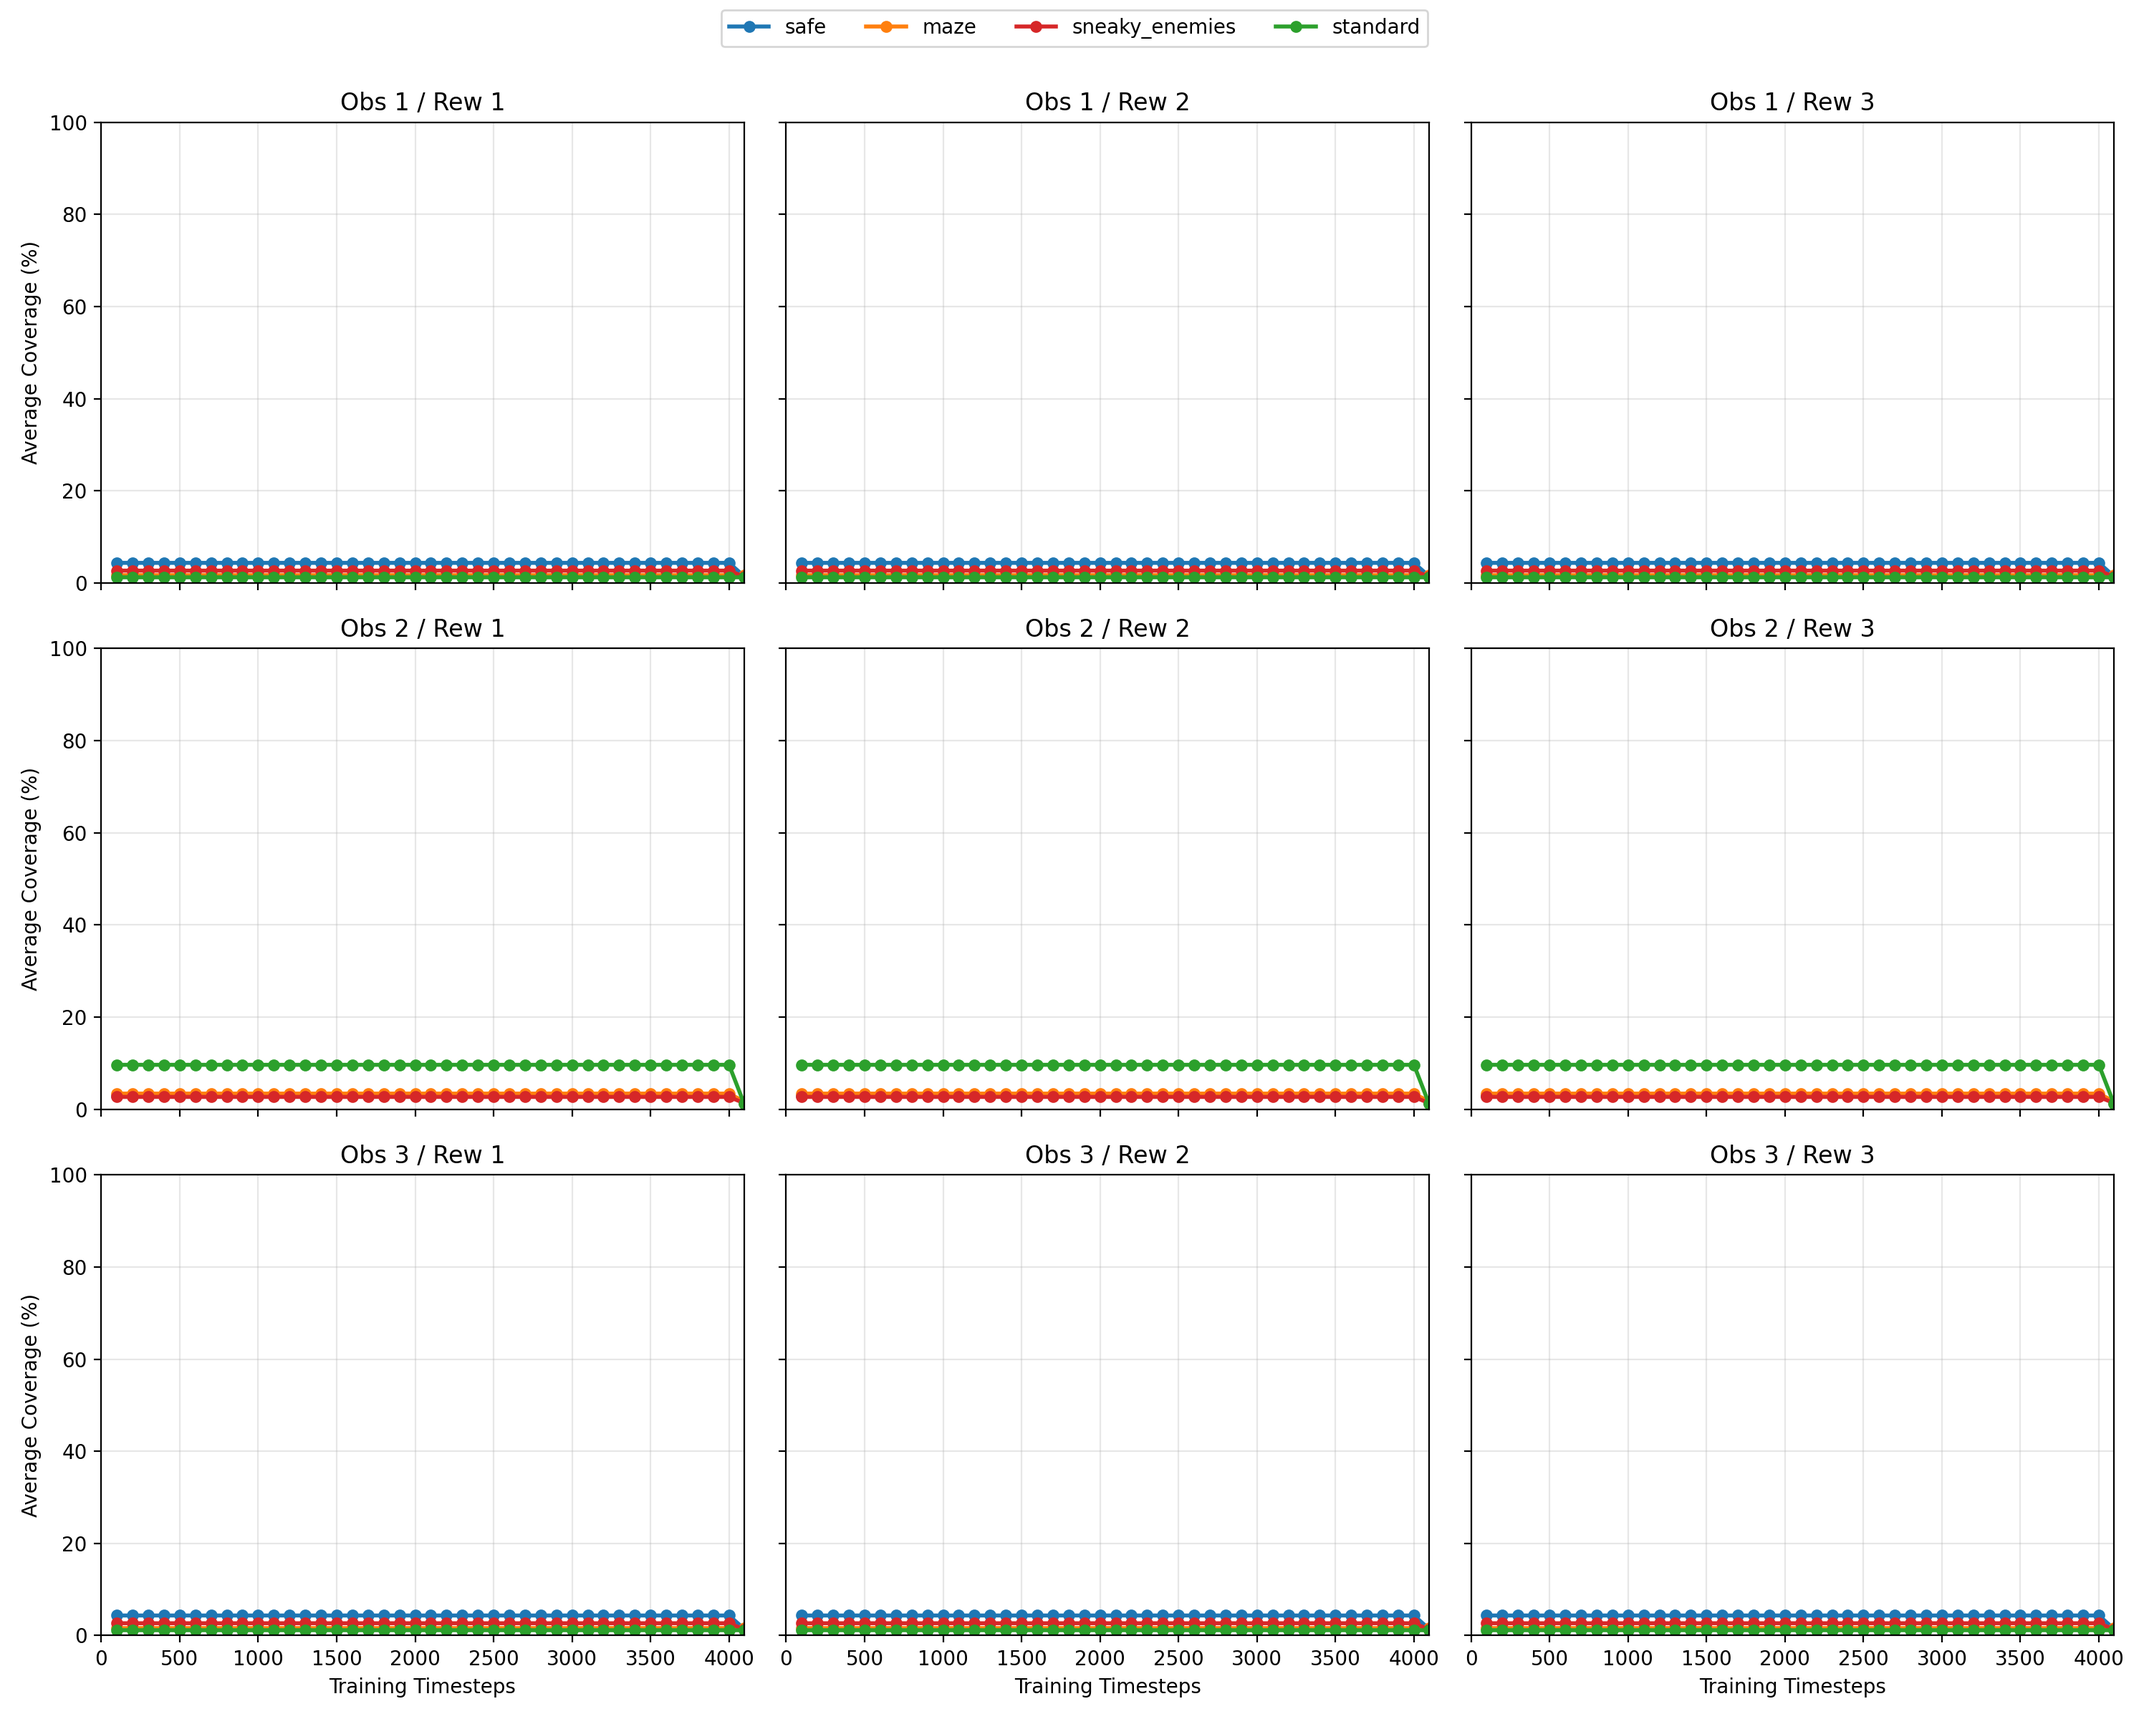
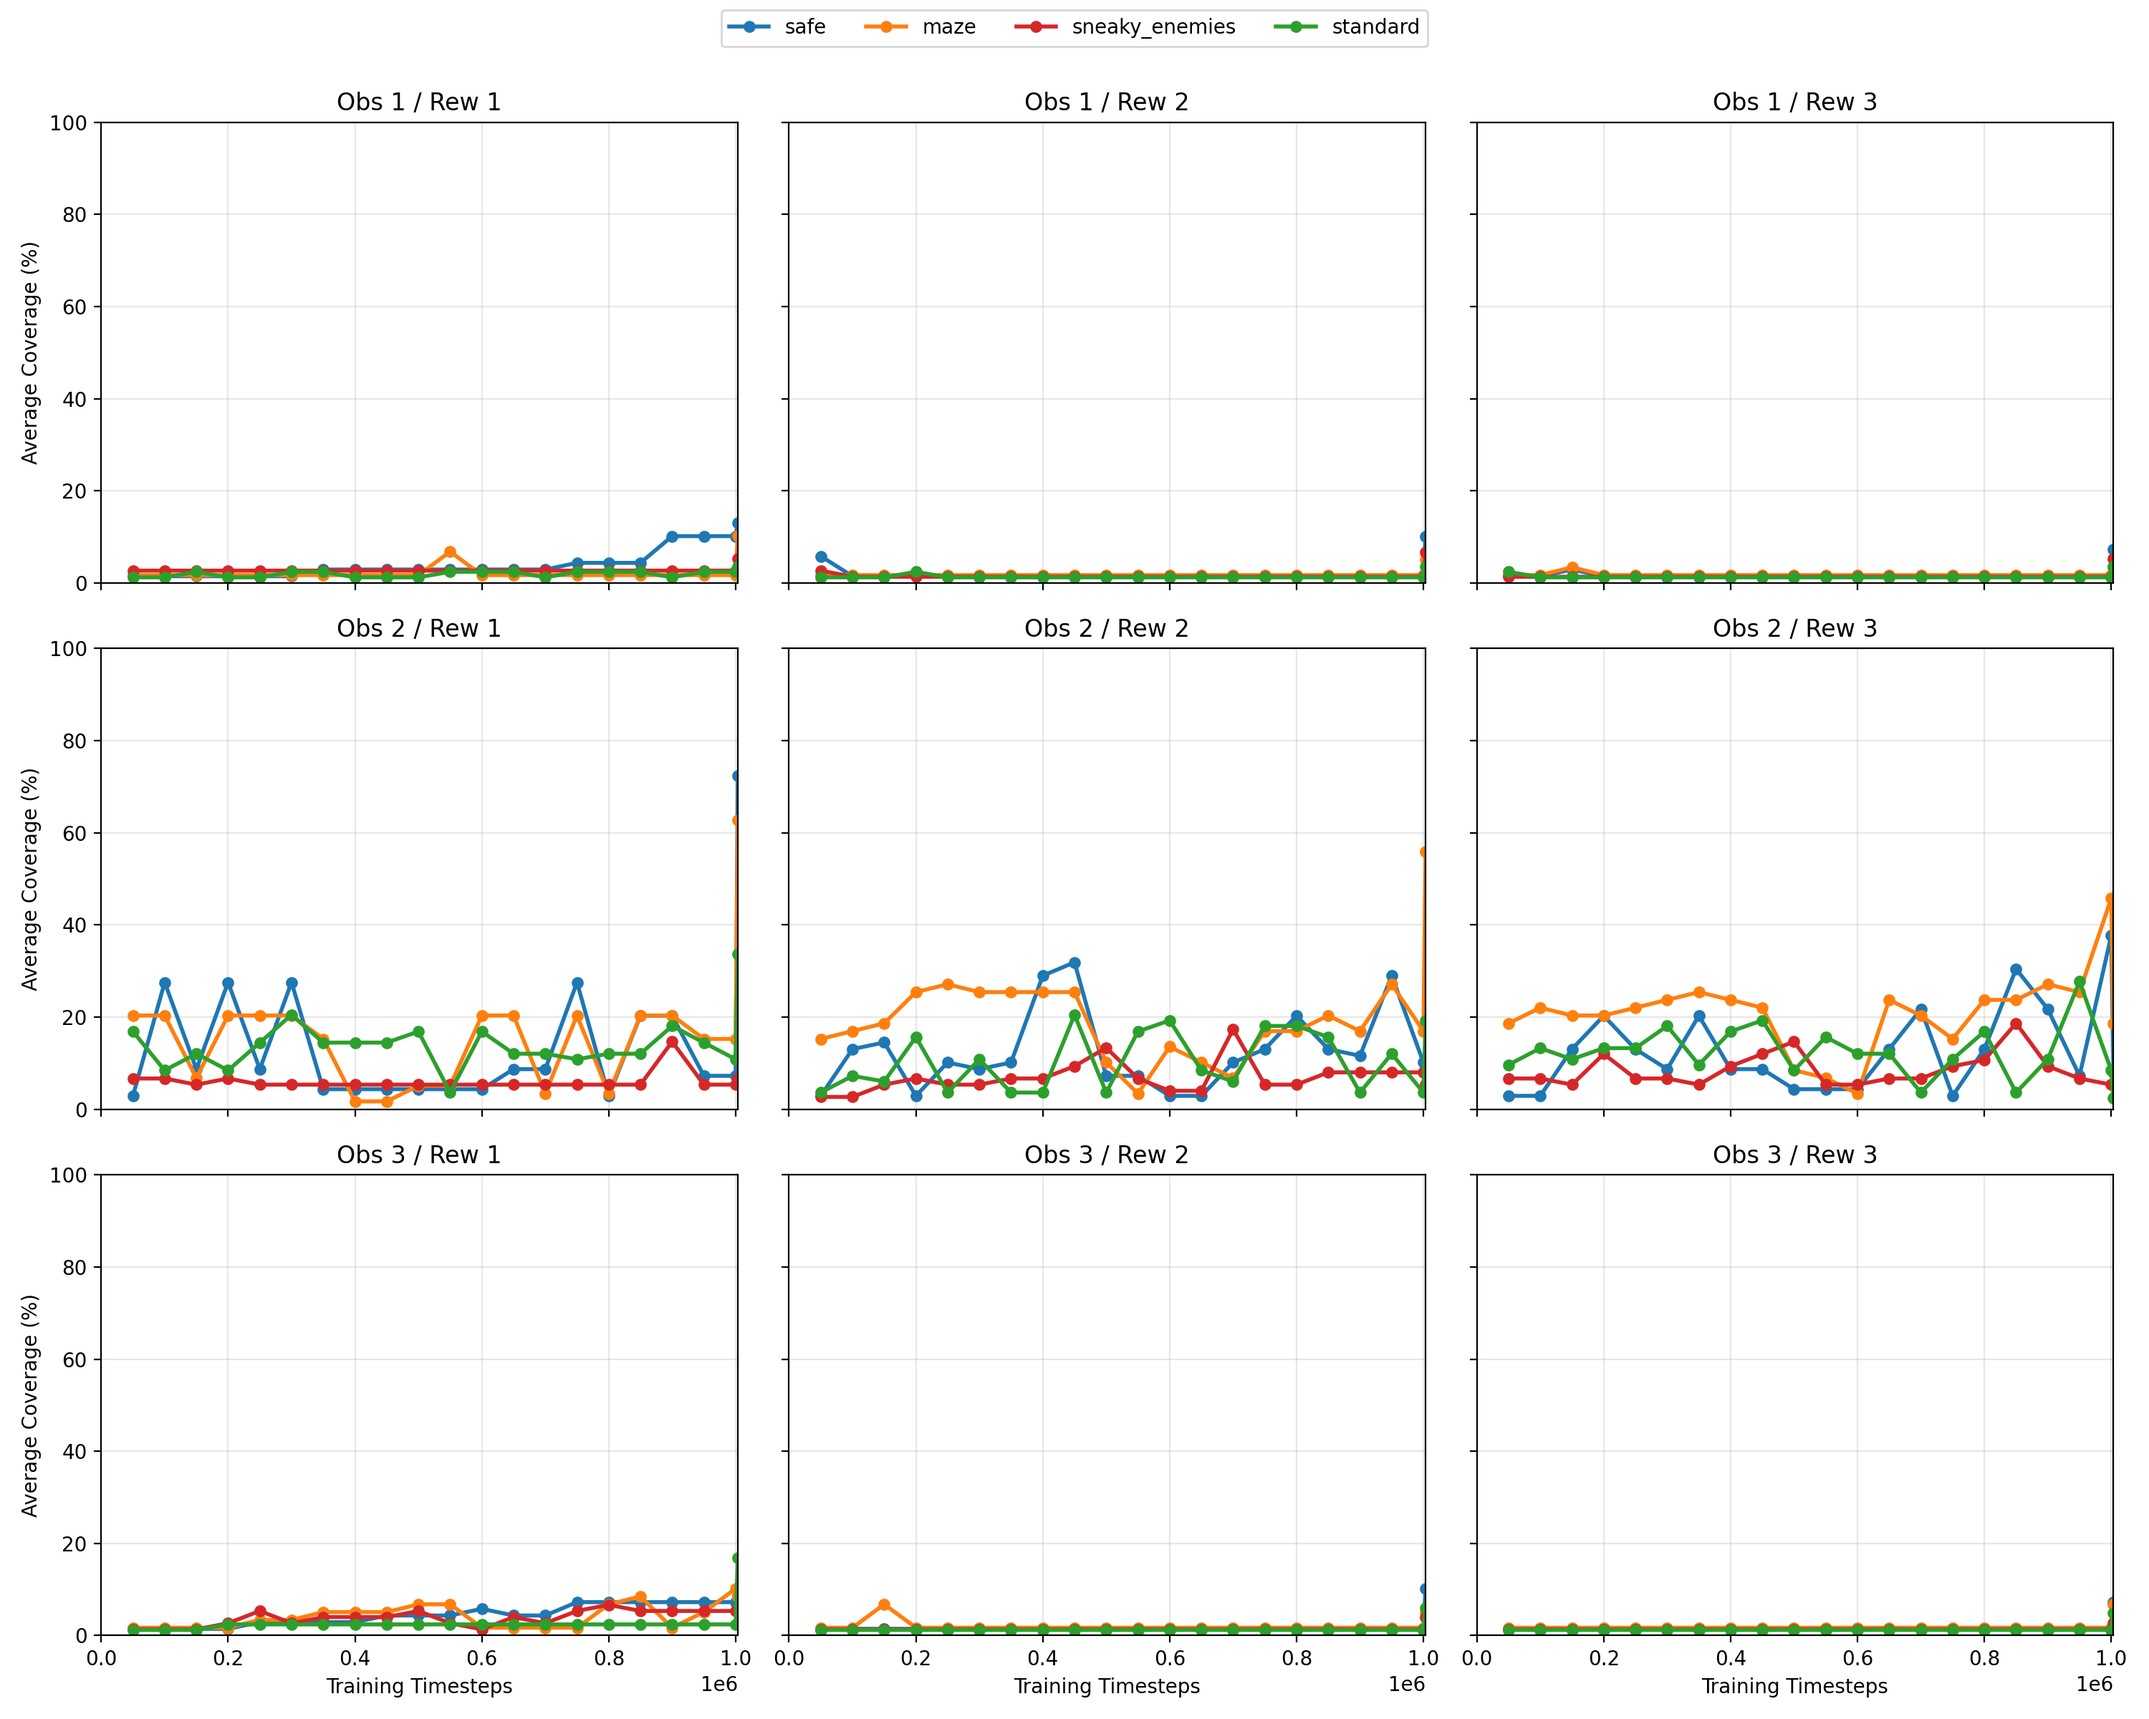
keep experiments up to date

diff --git a/experiments/README.md b/experiments/README.md
@@ -24,8 +24,8 @@ Notes:
 
 - The experiment scripts use the same `--observation-version` and `--reward-version` flags as the main SB3 scripts.
 - Coverage percentage is the primary metric for plotting.
-- The default training environment is `standard`.
-- The default experiment workflow saves checkpoints every 100 timesteps and evaluates each checkpoint once per map.
+- The default training environment is `standard`, which means each observation/reward pair is trained once on random maps and then evaluated on each map listed in `--maps`.
+- The script default for `--checkpoint-freq` is `100`, but larger values such as `50000` are more practical for long report-scale runs.
 - The current plot workflow reads the aggregate `obsX_rewY.json` files in `results/`.
 - Generated files under `models/`, `results/`, and `plots/` are ignored by Git.
 
@@ -33,6 +33,13 @@ Typical workflow:
 
 ```bash
 python3 experiments/run_experiments.py --observations 1 --rewards 1 --total-timesteps 100000
+python3 experiments/plot_results.py
+```
+
+Report-scale workflow:
+
+```bash
+python3 experiments/run_experiments.py --observations 1,2,3 --rewards 1,2,3 --total-timesteps 1000000 --checkpoint-freq 50000
 python3 experiments/plot_results.py
 ```
 
